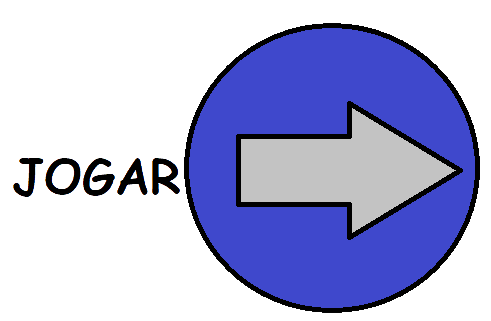
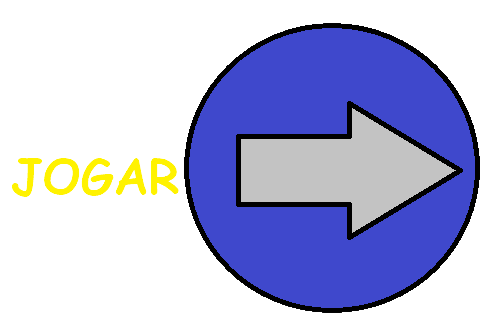
Alteração da lógica de som e mudança visual do menu

Changed region(s): [[0.0, 0.4673, 0.3666, 0.6231]]

diff --git a/Monster.java b/Monster.java
@@ -14,7 +14,12 @@ public abstract class Monster extends Actor {
     private int shotDelay = 2;
     private Time timeShot;
     private Sound sound = new Sound("Comendo.wav",50,1);
- 
+    
+    public Monster(MyWorld myWorld){
+        this.myWorld = myWorld;
+    
+    }
+    
     public int getScore(){
         return score;
     }
@@ -29,28 +34,32 @@ public abstract class Monster extends Actor {
         Actor monster = getOneIntersectingObject(Monster.class);  
         Actor satellite = getOneIntersectingObject(Satellite.class);
         
-        World myWorld = getWorld();
-        if (meteor != null) {
-            sound.playMusic();
-            Meteor m = (Meteor) meteor;
-            int value = m.getValue();
-            myWorld.removeObject(meteor);
-            setScore(getScore() + value);
+        
+        if(this.myWorld.getWorldTime() > 0){
+            if (meteor != null) {
+                sound.playMusic();
+                Meteor m = (Meteor) meteor;
+                int value = m.getValue();
+                myWorld.removeObject(meteor);
+                setScore(getScore() + value);
             
+            }
+            if (missile != null) {
+                Missile m = (Missile)missile;
+                m.detonate();
+                int damege = m.getDamage();
+                setScore(getScore() - damege);
+                myWorld.removeObject(missile);
+            }
+            if(satellite != null){
+                sound.playMusic();
+                Satellite s = (Satellite)satellite;
+                myWorld.removeObject(satellite);
+                fireBoolIncrement();
+            }
+        
         }
-        if (missile != null) {
-            Missile m = (Missile)missile;
-            m.detonate();
-            int damege = m.getDamage();
-            setScore(getScore() - damege);
-            myWorld.removeObject(missile);
-        }
-        if(satellite != null){
-            sound.playMusic();
-            Satellite s = (Satellite)satellite;
-            myWorld.removeObject(satellite);
-            fireBoolIncrement();
-        }
+        
     }
     public abstract void move();
     

diff --git a/MyWorld.java b/MyWorld.java
@@ -13,7 +13,7 @@ public class MyWorld extends World
     private P2Monster p2Monster;
     private int time = 60;
     private Time timer;
-    private Sound sound = new Sound("MusicaEspacial01.wav",25);
+    private Sound sound;
 
 
     /**
@@ -30,20 +30,42 @@ public class MyWorld extends World
         
         addObject(p1Monster, 550,550);
         addObject(p2Monster, 110,550);
+        //addObject(new NextLevel(this), 20, 20);
         
-        timer = new Time(5,500,500);
-        //sound.playMusic();
+        
+        
+        
         
     }
     
     public void act()
     {
-        generateMissible();
-        generateMeteor();
-        generateSatellite();
-        updateScore();
-        updateTime();
+        initializeTime();
+        initializeSound();
+        if(timer.getTime() > 0){
+            generateMissible();
+            generateMeteor();
+            generateSatellite();
+            updateScore();
+            
+        
+        }
         checkTime();
+        
+        updateTime();
+        
+    }
+    
+    public void initializeTime(){
+        if(timer == null)
+            timer = new Time(time,500,500);
+    }
+    
+    public void initializeSound(){
+        if(sound == null){
+            sound = new Sound("MusicaEspacial01.wav",25);
+            sound.playMusic();
+        }
     }
     private void generateBlueMissile(){
         Random var = new Random();
@@ -96,8 +118,9 @@ public class MyWorld extends World
     }
     
     private void checkTime(){
-        if(time == 0){
-             addObject(new NextLevel(this), 20, 20);
+        if(timer.getTime() == 0){
+            sound.stopMusic();
+            addObject(new NextLevel(this), 400, 300);
             
         }
         
@@ -108,4 +131,9 @@ public class MyWorld extends World
     public Monster getMonster2(){
         return p2Monster;
     }
+    
+    public int getWorldTime(){
+        return timer.getTime();
+    }
+        
 }

diff --git a/P2Monster.java b/P2Monster.java
@@ -11,7 +11,7 @@ public class P2Monster extends Monster
     GifImage monster = new GifImage("Modelo2.gif");
     
     public P2Monster(MyWorld world){
-        super.myWorld = world;
+        super(world);
     }
     /**
      * Act - do whatever the P2Monster wants to do. This method is called whenever

diff --git a/P1Monster.java b/P1Monster.java
@@ -11,8 +11,8 @@ public class P1Monster extends Monster {
     
  
     
-    public P1Monster(MyWorld word){
-        super.myWorld = word;
+    public P1Monster(MyWorld world){
+        super(world);
     }
     /**
      * Act - do whatever the P1Monster wants to do. This method is called whenever

diff --git a/NextLevel.java b/NextLevel.java
@@ -20,6 +20,8 @@ public class NextLevel extends Button
     public void act()
     {
         // Add your action code here.
+        getImage().scale(200, 200);
+        
         if(Greenfoot.mouseClicked(this))
         {
             Greenfoot.setWorld(new Menu());
